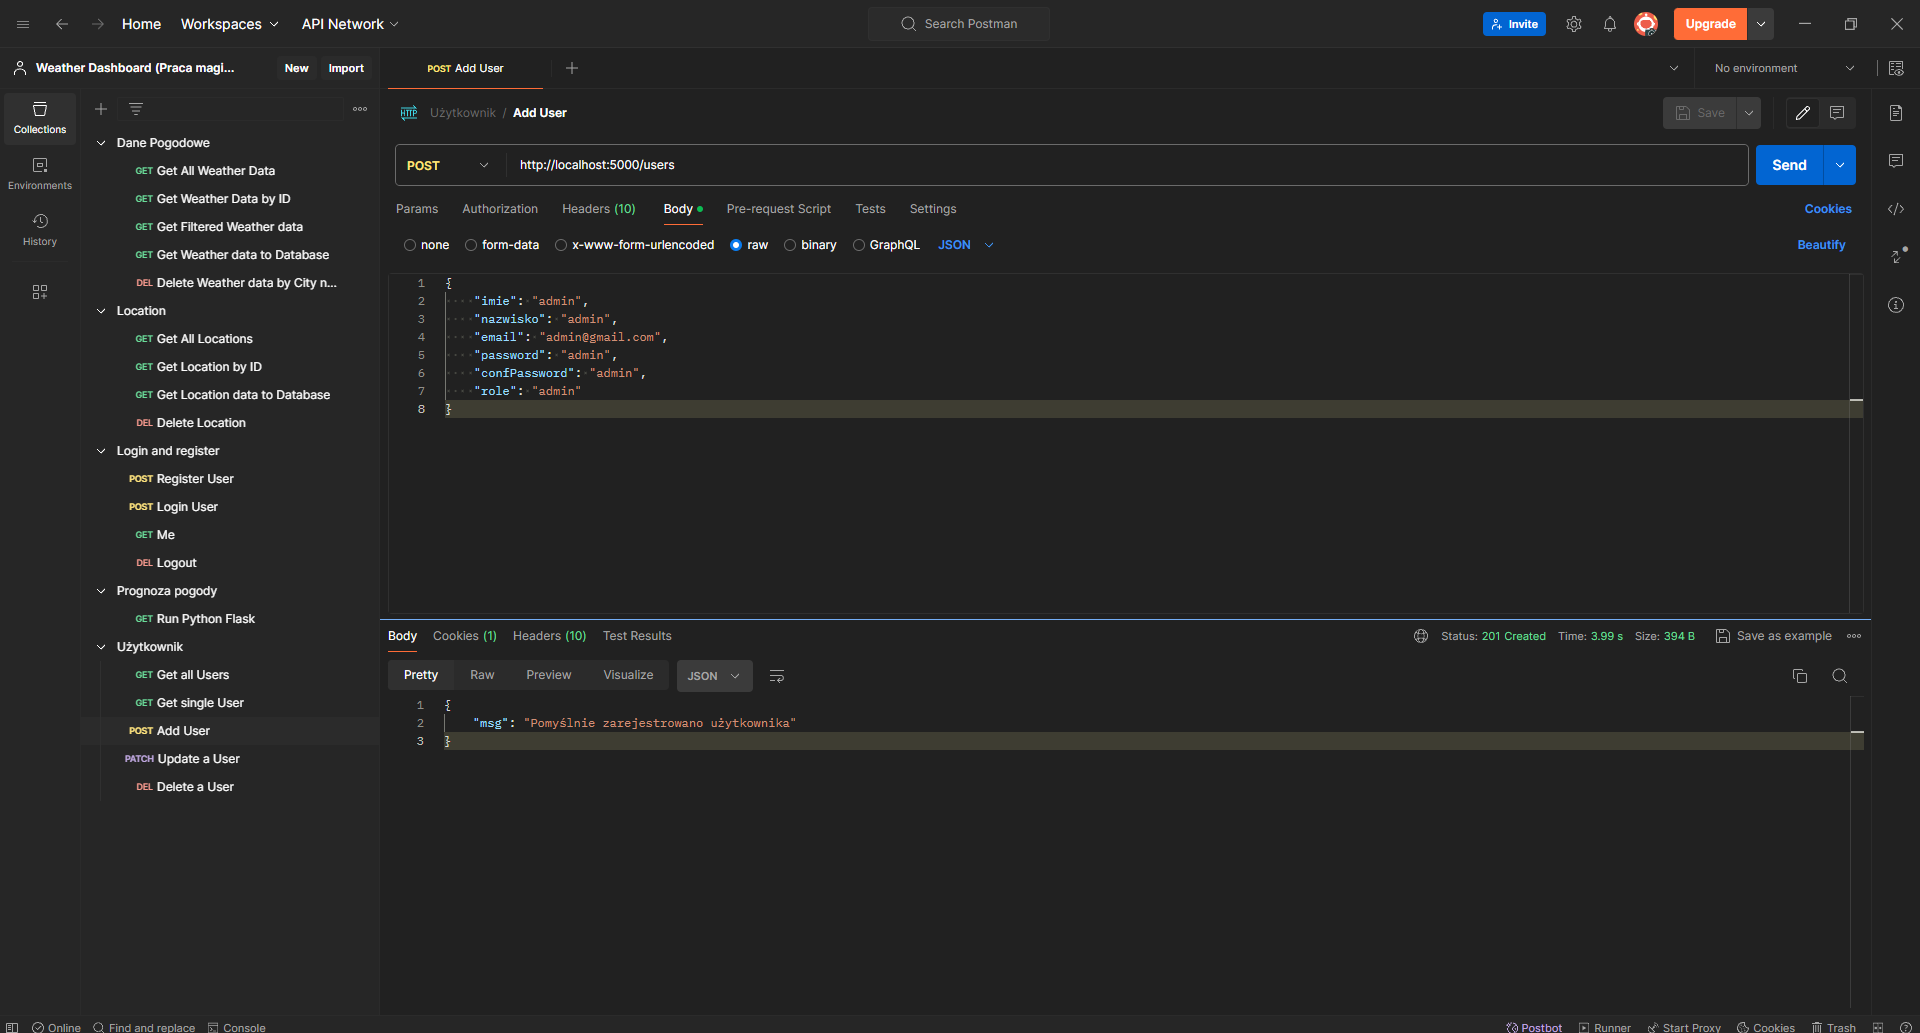
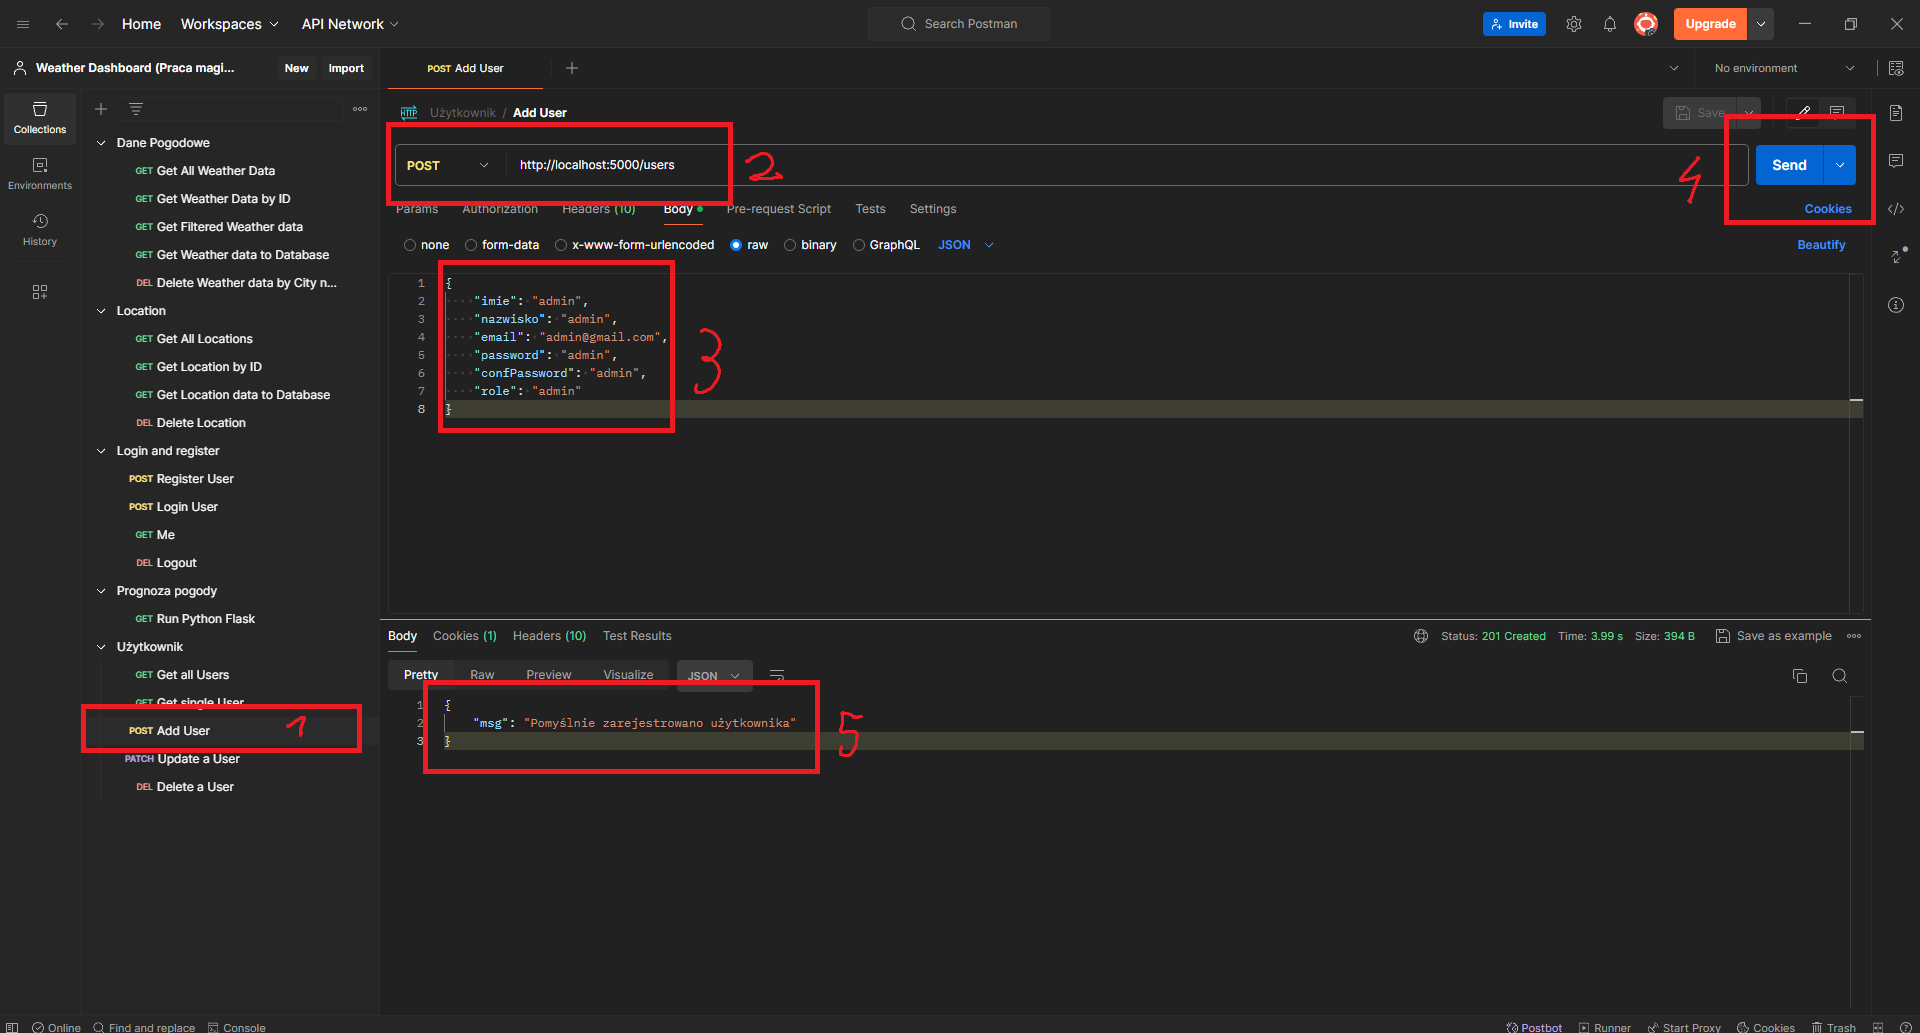
Update README.md and image.png in folder backend

diff --git a/backend/README.md b/backend/README.md
@@ -58,6 +58,12 @@
 ## Co zrobić po uruchomieniu backendu?
 Po uruchomieniu backendu należy użyć narzędzia [Postman](https://www.postman.com/) w celu dodania użytkownika z rolą admin.
 
-Przyklad poniżej
+Przykład poniżej
+
+1. Dodać nowe `request` w programie `Postman`,
+2. Wpisać URL taki jak na zdjęciu i ustawić typ na `Post`,
+3. Wpisać dane logowania w formie `JSON` Tak jak na poniższym zdjęciu,
+4. Nacisnąć przycisk `Send`,
+5. Po pomyślnym wykonaniu poleceń powinien się wyświetlić komunikat ze pomyślnie dodano użytkownika.
 
 ![alt text](image.png)
